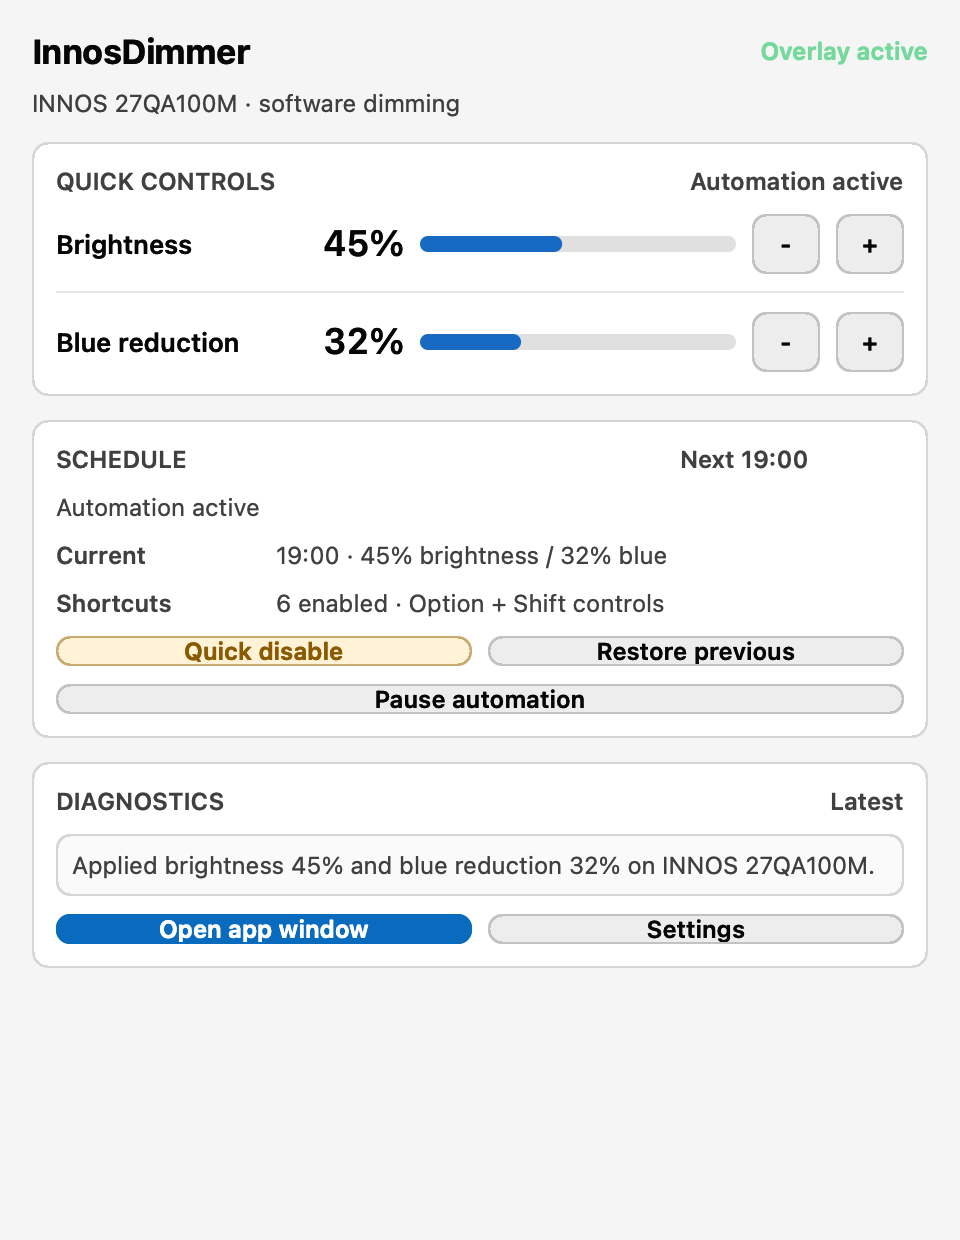
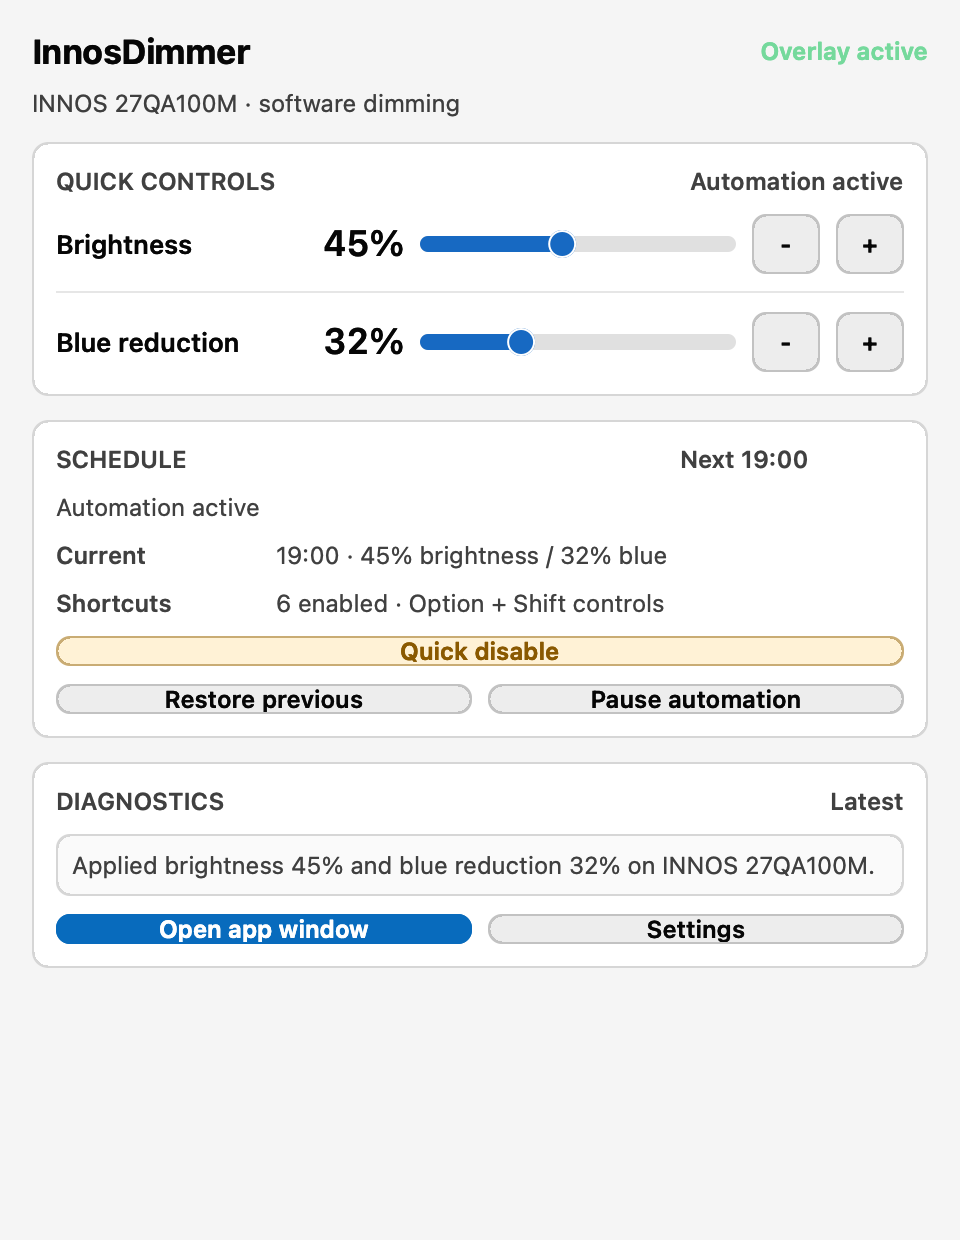
Add draggable popover controls
Why: The popover needed direct drag adjustment for percentages and a clearer action button hierarchy beyond the existing +/- controls.

Key changes:
- Added absolute brightness and blue reduction commands routed from draggable native tracks.
- Updated the popover track affordance with a visible thumb and pointer cursor.
- Rebalanced schedule actions around a full-width Quick disable button and paired secondary actions.
- Synced the HTML mockup, screenshots, and comparison report with the native design.

Operator context:
- User asked for drag-based percentage control in addition to +/- buttons.
- User also called out weak button layout, so the schedule action grouping was tightened against the mockup direction.
- Verified native behavior through focused MenuBarStateTests, hotkey routing tests, and a Release build.

Verification:
- xcodebuild test -scheme InnosDimmer -only-testing:InnosDimmerTests/MenuBarStateTests
- xcodebuild test -scheme InnosDimmer -only-testing:InnosDimmerTests/MenuBarHotkeyRoutingTests
- xcodebuild -scheme InnosDimmer -configuration Release build CODE_SIGNING_ALLOWED=NO

Changed region(s): [[0.1562, 0.4903, 0.8438, 0.5823], [0.5312, 0.2452, 0.5625, 0.3065], [0.5625, 0.1839, 0.5938, 0.2145]]

diff --git a/InnosDimmer/UI/MenuBarPopoverView.swift b/InnosDimmer/UI/MenuBarPopoverView.swift
@@ -1,15 +1,29 @@
 import AppKit
 
-enum MenuBarCommand: CaseIterable, Equatable, Hashable {
+enum MenuBarCommand: Equatable, Hashable {
     case brightnessDown
     case brightnessUp
+    case setBrightness(Int)
     case warmthDown
     case warmthUp
+    case setWarmth(Int)
     case pauseAutomation
     case quickDisable
     case restorePrevious
     case openAppWindow
     case openSettings
+
+    static let buttonCommands: [MenuBarCommand] = [
+        .brightnessDown,
+        .brightnessUp,
+        .warmthDown,
+        .warmthUp,
+        .pauseAutomation,
+        .quickDisable,
+        .restorePrevious,
+        .openAppWindow,
+        .openSettings
+    ]
 }
 
 struct MenuBarActions {
@@ -143,6 +157,8 @@ private final class PopoverContainerView: NSView {
 }
 
 private final class ProgressTrackView: NSView {
+    var onUserFractionChange: ((CGFloat) -> Void)?
+
     var fraction: CGFloat = 0 {
         didSet {
             fraction = min(1, max(0, fraction))
@@ -151,7 +167,7 @@ private final class ProgressTrackView: NSView {
     }
 
     override var intrinsicContentSize: NSSize {
-        NSSize(width: NSView.noIntrinsicMetric, height: 8)
+        NSSize(width: NSView.noIntrinsicMetric, height: 18)
     }
 
     override init(frame frameRect: NSRect) {
@@ -168,22 +184,64 @@ private final class ProgressTrackView: NSView {
         needsDisplay = true
     }
 
+    override func resetCursorRects() {
+        super.resetCursorRects()
+        addCursorRect(bounds, cursor: .pointingHand)
+    }
+
+    override func mouseDown(with event: NSEvent) {
+        updateFromEvent(event)
+    }
+
+    override func mouseDragged(with event: NSEvent) {
+        updateFromEvent(event)
+    }
+
     override func draw(_ dirtyRect: NSRect) {
         super.draw(dirtyRect)
         let rect = bounds.insetBy(dx: 0, dy: max(0, (bounds.height - 8) / 2))
         let radius = rect.height / 2
+        let fillColor = PopoverPalette.trackFill(for: effectiveAppearance)
 
         PopoverPalette.trackBackground(for: effectiveAppearance).setFill()
         NSBezierPath(roundedRect: rect, xRadius: radius, yRadius: radius).fill()
 
-        guard fraction > 0 else {
-            return
+        if fraction > 0 {
+            var fillRect = rect
+            fillRect.size.width = max(rect.height, rect.width * fraction)
+            fillColor.setFill()
+            NSBezierPath(roundedRect: fillRect, xRadius: radius, yRadius: radius).fill()
         }
 
-        var fillRect = rect
-        fillRect.size.width = max(rect.height, rect.width * fraction)
-        PopoverPalette.trackFill(for: effectiveAppearance).setFill()
-        NSBezierPath(roundedRect: fillRect, xRadius: radius, yRadius: radius).fill()
+        let thumbDiameter: CGFloat = 14
+        let thumbX = rect.minX + (rect.width * fraction) - (thumbDiameter / 2)
+        let clampedThumbX = min(max(thumbX, rect.minX), rect.maxX - thumbDiameter)
+        let thumbRect = NSRect(
+            x: clampedThumbX,
+            y: bounds.midY - (thumbDiameter / 2),
+            width: thumbDiameter,
+            height: thumbDiameter
+        )
+        fillColor.setFill()
+        NSBezierPath(ovalIn: thumbRect).fill()
+        PopoverPalette.sectionBackground(for: effectiveAppearance).setStroke()
+        let thumbBorder = NSBezierPath(ovalIn: thumbRect.insetBy(dx: 0.5, dy: 0.5))
+        thumbBorder.lineWidth = 1
+        thumbBorder.stroke()
+    }
+
+    func simulateUserFractionChangeForTesting(_ fraction: CGFloat) {
+        updateFromUserFraction(fraction)
+    }
+
+    private func updateFromEvent(_ event: NSEvent) {
+        let location = convert(event.locationInWindow, from: nil)
+        updateFromUserFraction(location.x / max(bounds.width, 1))
+    }
+
+    private func updateFromUserFraction(_ newFraction: CGFloat) {
+        fraction = newFraction
+        onUserFractionChange?(fraction)
     }
 }
 
@@ -425,6 +483,14 @@ final class MenuBarPopoverView: NSView {
         shortcutSummaryLabel.stringValue
     }
 
+    func simulateBrightnessTrackChangeForTesting(percent: Int) {
+        brightnessTrackView.simulateUserFractionChangeForTesting(CGFloat(Clamped.percent(percent)) / 100)
+    }
+
+    func simulateWarmthTrackChangeForTesting(percent: Int) {
+        warmthTrackView.simulateUserFractionChangeForTesting(CGFloat(Clamped.percent(percent)) / 100)
+    }
+
     private func buildLayout() {
         wantsLayer = true
         updateBackground()
@@ -460,6 +526,15 @@ final class MenuBarPopoverView: NSView {
                 )
             ]
         )
+        brightnessTrackView.onUserFractionChange = { [weak self] fraction in
+            self?.actions.perform(.setBrightness(Self.percent(from: fraction)))
+        }
+        warmthTrackView.onUserFractionChange = { [weak self] fraction in
+            self?.actions.perform(.setWarmth(Self.percent(from: fraction)))
+        }
+        brightnessTrackView.setAccessibilityLabel("Brightness percentage")
+        warmthTrackView.setAccessibilityLabel("Blue reduction percentage")
+
         let scheduleNextChip = chipView(scheduleNextLabel)
         scheduleNextChip.widthAnchor.constraint(greaterThanOrEqualToConstant: 112).isActive = true
         let schedule = makeSection(
@@ -469,11 +544,11 @@ final class MenuBarPopoverView: NSView {
                 automationLabel,
                 makeSummaryRow(title: "Current", value: scheduleSummaryLabel),
                 makeSummaryRow(title: "Shortcuts", value: shortcutSummaryLabel),
+                button("Quick disable", command: .quickDisable, action: #selector(quickDisablePressed), style: .warning),
                 makeActionRow([
-                    button("Quick disable", command: .quickDisable, action: #selector(quickDisablePressed), style: .warning),
-                    button("Restore previous", command: .restorePrevious, action: #selector(restorePreviousPressed))
-                ]),
-                button("Pause automation", command: .pauseAutomation, action: #selector(pauseAutomationPressed))
+                    button("Restore previous", command: .restorePrevious, action: #selector(restorePreviousPressed)),
+                    button("Pause automation", command: .pauseAutomation, action: #selector(pauseAutomationPressed))
+                ])
             ]
         )
         let diagnostics = makeSection(
@@ -592,7 +667,7 @@ final class MenuBarPopoverView: NSView {
         stack.spacing = 8
         titleLabel.widthAnchor.constraint(equalToConstant: 112).isActive = true
         valueLabel.widthAnchor.constraint(equalToConstant: 54).isActive = true
-        trackView.heightAnchor.constraint(equalToConstant: 8).isActive = true
+        trackView.heightAnchor.constraint(equalToConstant: 18).isActive = true
         trackView.setContentHuggingPriority(.defaultLow, for: .horizontal)
         trackView.setContentCompressionResistancePriority(.defaultLow, for: .horizontal)
         return stack
@@ -664,6 +739,10 @@ final class MenuBarPopoverView: NSView {
         view.setContentHuggingPriority(.defaultLow, for: .horizontal)
         view.setContentCompressionResistancePriority(.defaultLow, for: .horizontal)
         return view
+    }
+
+    private static func percent(from fraction: CGFloat) -> Int {
+        Clamped.percent(Int((fraction * 100).rounded()))
     }
 
     private func configureBadge(_ badge: StatusBadgeView) {

diff --git a/InnosDimmerTests/MenuBarStateTests.swift b/InnosDimmerTests/MenuBarStateTests.swift
@@ -116,7 +116,7 @@ final class MenuBarStateTests: XCTestCase {
             }
         )
 
-        for command in MenuBarCommand.allCases {
+        for command in MenuBarCommand.buttonCommands {
             guard let button = view.commandButtonForTesting(command) else {
                 XCTFail("Missing button for \(command)")
                 continue
@@ -127,7 +127,23 @@ final class MenuBarStateTests: XCTestCase {
             button.performClick(nil)
         }
 
-        XCTAssertEqual(routedCommands, MenuBarCommand.allCases)
+        XCTAssertEqual(routedCommands, MenuBarCommand.buttonCommands)
+    }
+
+    @MainActor
+    func testMenuBarPopoverTracksRouteAbsolutePercentageCommands() {
+        var routedCommands: [MenuBarCommand] = []
+        let view = MenuBarPopoverView(
+            state: .defaultState(),
+            actions: MenuBarActions { command in
+                routedCommands.append(command)
+            }
+        )
+
+        view.simulateBrightnessTrackChangeForTesting(percent: 73)
+        view.simulateWarmthTrackChangeForTesting(percent: 18)
+
+        XCTAssertEqual(routedCommands, [.setBrightness(73), .setWarmth(18)])
     }
 
     @MainActor
@@ -275,6 +291,28 @@ final class MenuBarStateTests: XCTestCase {
         XCTAssertEqual(software.appliedCommands.map(\.brightness), [85, 85])
         XCTAssertEqual(software.appliedCommands.map(\.warmth), [12, 7])
         XCTAssertEqual(brightnessController.state.targetWarmth, 7)
+        XCTAssertEqual(brightnessController.state.lastAppliedCommandSource, .menuSlider)
+    }
+
+    @MainActor
+    func testMenuBarControllerRoutesAbsoluteTrackCommandsThroughBrightnessController() throws {
+        var state = BrightnessState.defaultState()
+        state.display = .menuBarTestDisplay
+        let software = RecordingSoftwareDimmingStrategy()
+        let brightnessController = BrightnessController(state: state, softwareStrategy: software)
+        let menuBarController = MenuBarController(
+            brightnessController: brightnessController,
+            displayInventory: RecordingDisplayInventory(displays: [.menuBarTestDisplay], mainDisplayID: 999),
+            displayTargetStore: DisplayTargetStore(defaults: try makeTemporaryDefaults(), key: "SelectedDisplay")
+        )
+
+        menuBarController.perform(.setBrightness(42))
+        menuBarController.perform(.setWarmth(27))
+
+        XCTAssertEqual(software.appliedCommands.map(\.brightness), [42, 42])
+        XCTAssertEqual(software.appliedCommands.map(\.warmth), [12, 27])
+        XCTAssertEqual(brightnessController.state.targetBrightness, 42)
+        XCTAssertEqual(brightnessController.state.targetWarmth, 27)
         XCTAssertEqual(brightnessController.state.lastAppliedCommandSource, .menuSlider)
     }
 

diff --git a/docs/design/popover-redesign/mockup.html b/docs/design/popover-redesign/mockup.html
@@ -156,16 +156,33 @@
     }
 
     .track {
+      position: relative;
       height: 8px;
-      overflow: hidden;
       border-radius: 999px;
       background: #3a3a3e;
+    }
+
+    body[data-theme="light"] .track {
+      background: #dfe1e4;
     }
 
     .fill {
       height: 100%;
       border-radius: inherit;
       background: var(--blue);
+    }
+
+    .track::after {
+      content: "";
+      position: absolute;
+      top: 50%;
+      left: calc(var(--value) * 1% - 7px);
+      width: 14px;
+      height: 14px;
+      border-radius: 50%;
+      background: var(--blue);
+      border: 1px solid var(--panel);
+      transform: translateY(-50%);
     }
 
     button {
@@ -223,6 +240,11 @@
       grid-template-columns: 1fr 1fr;
       gap: 8px;
       margin-top: 12px;
+    }
+
+    .wide-action {
+      width: 100%;
+      margin-top: 10px;
     }
 
     .diagnostic {
@@ -305,7 +327,7 @@
       <div class="control">
         <div class="label">Brightness</div>
         <div class="value">45%</div>
-        <div class="track" aria-hidden="true"><div class="fill" style="width:45%"></div></div>
+        <div class="track" style="--value:45" aria-label="Brightness 45 percent"><div class="fill" style="width:45%"></div></div>
         <button aria-label="Brightness down">-</button>
         <button aria-label="Brightness up">+</button>
       </div>
@@ -313,7 +335,7 @@
       <div class="control">
         <div class="label">Blue reduction</div>
         <div class="value">32%</div>
-        <div class="track" aria-hidden="true"><div class="fill" style="width:32%"></div></div>
+        <div class="track" style="--value:32" aria-label="Blue reduction 32 percent"><div class="fill" style="width:32%"></div></div>
         <button aria-label="Blue reduction down">-</button>
         <button aria-label="Blue reduction up">+</button>
       </div>
@@ -330,13 +352,10 @@
         <dt>Shortcuts</dt>
         <dd>6 enabled · Option + Shift controls</dd>
       </dl>
+      <button class="warning wide-action">Quick disable</button>
       <div class="action-row">
-        <button class="warning">Quick disable</button>
         <button>Restore previous</button>
-      </div>
-      <div class="action-row">
         <button>Pause automation</button>
-        <button>Resume at next boundary</button>
       </div>
     </section>
 

diff --git a/InnosDimmer/UI/MenuBarController.swift b/InnosDimmer/UI/MenuBarController.swift
@@ -130,10 +130,22 @@ final class MenuBarController: NSObject {
             adjust(brightnessDelta: -DimmingStep.brightness, source: source)
         case .brightnessUp:
             adjust(brightnessDelta: DimmingStep.brightness, source: source)
+        case .setBrightness(let brightness):
+            apply(
+                brightness: brightness,
+                warmth: brightnessController.state.targetWarmth,
+                source: source
+            )
         case .warmthDown:
             adjust(warmthDelta: -DimmingStep.warmth, source: source)
         case .warmthUp:
             adjust(warmthDelta: DimmingStep.warmth, source: source)
+        case .setWarmth(let warmth):
+            apply(
+                brightness: brightnessController.state.targetBrightness,
+                warmth: warmth,
+                source: source
+            )
         case .quickDisable:
             quickDisable(source: source)
         case .restorePrevious:

diff --git a/docs/design/popover-redesign/captures/comparison-report.md b/docs/design/popover-redesign/captures/comparison-report.md
@@ -15,6 +15,7 @@
 | Pass 1 | 75 | Keep | Root sections were constrained to stack width. |
 | Pass 2 | 86 | Keep | Nested rows, action buttons, copy, and diagnostics hierarchy matched the mockup structure. |
 | Pass 3 | 90 | Keep | Header/status labels, schedule trailing label, light/dark palette, and snapshot generation stabilized. |
+| Pass 4 | 93 | Keep | Tracks gained draggable thumbs and absolute percentage commands; schedule actions were regrouped into one full-width warning action plus two balanced secondary actions. |
 
 ## Current Evidence
 